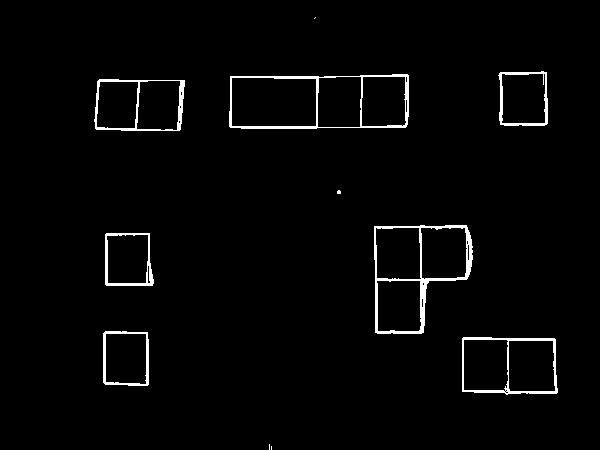
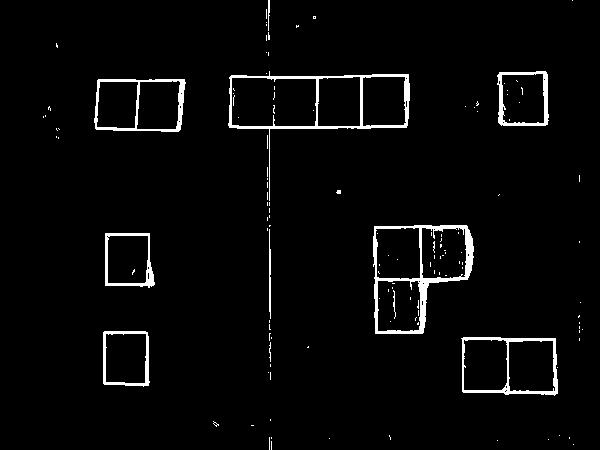
threshold and gradient direction

diff --git a/main.py b/main.py
@@ -1,20 +1,23 @@
 import imageio
 import os
-from imageProcessing import sobel
+from imageProcessing.sobel import sobel_filter
 from imageProcessing.threshold import threshold
-import matplotlib.pyplot as plt
-import numpy as np
-
+from imageProcessing.clustering import compute_weighted_graph
 
 base_dir = r"C:\Users\arnau\OneDrive\Bureau\PIET4Kids"
 img_dir = os.path.join(base_dir, "img")
 
+print("loading picture as array...")
 img = imageio.imread(os.path.join(img_dir, "test.jpg"))
 
-edge_gradient = sobel.sobel_filter(img)
-plt.hist(edge_gradient.flatten(), 100)
-plt.show()
+print("computing edge gradient intensity and edge grandient direction...")
+(edge_gradient, edge_angle) = sobel_filter(img)
 
-img_threshold = threshold(edge_gradient, 2)
-imageio.imsave(os.path.join(img_dir, "img_threshold.jpg"), img_threshold)
+print("Computing threshold...")
+img_threshold = threshold(edge_gradient, 1)
+
+print("Creating weighted graph")
+weighted_graph = compute_weighted_graph(img_threshold)
+
+imageio.imsave(os.path.join(img_dir, "edge_angle.jpg"), edge_angle)
 imageio.imsave(os.path.join(img_dir, "edge_gradient.jpg"), edge_gradient)

diff --git a/imageProcessing/sobel.py b/imageProcessing/sobel.py
@@ -23,12 +23,12 @@ def sobel_filter(img):
     horizontal_gradient = filters.convolve(img_gray, sobel_filter_x)
     vertical_gradient = filters.convolve(img_gray, sobel_filter_y)
 
-    edge_gradient = np.sqrt(np.multiply(horizontal_gradient, horizontal_gradient) +
-                           np.multiply(vertical_gradient, vertical_gradient))
-
+    edge_gradient = np.hypot(horizontal_gradient, vertical_gradient)
     edge_gradient = edge_gradient / np.std(edge_gradient)
+
+    edge_angle = np.arctan2(vertical_gradient, horizontal_gradient)
 
     # imageio.imsave(os.path.join(img_dir, "horizontal_gradient.jpg"), horizontal_gradient)
     # imageio.imsave(os.path.join(img_dir, "vertical_gradient.jpg"), vertical_gradient)
 
-    return edge_gradient
+    return edge_gradient, edge_angle

diff --git a/imageProcessing/threshold.py b/imageProcessing/threshold.py
@@ -3,11 +3,4 @@ import numpy as np
 #TODO Make a hysteresis threshold  https://scikit-image.org/docs/dev/api/skimage.filters.html#skimage.filters.apply_hysteresis_threshold
 
 def threshold(img, threshold):
-    img_threshold = np.zeros(img.shape)
-    for i in range(img.shape[0]):
-        for j in range(img.shape[1]):
-            if img[i,j] > threshold:
-                img_threshold[i, j] = 255
-            else:
-                img_threshold[i, j] = 0
-    return img_threshold
+    return img > threshold

diff --git a/imageProcessing/clustering.py b/imageProcessing/clustering.py
@@ -1,0 +1,14 @@
+import numpy as np
+
+def compute_weighted_graph(img_threshold):
+    nodes = getNodes(img_threshold)
+    print(nodes)
+    return nodes
+
+def getNodes(img_threshold):
+    nodes = []
+    for i in range(img_threshold.shape[0]):
+        for j in range(img_threshold.shape[1]):
+            if img_threshold[i,j]:
+                nodes.append((i,j))
+    return nodes
